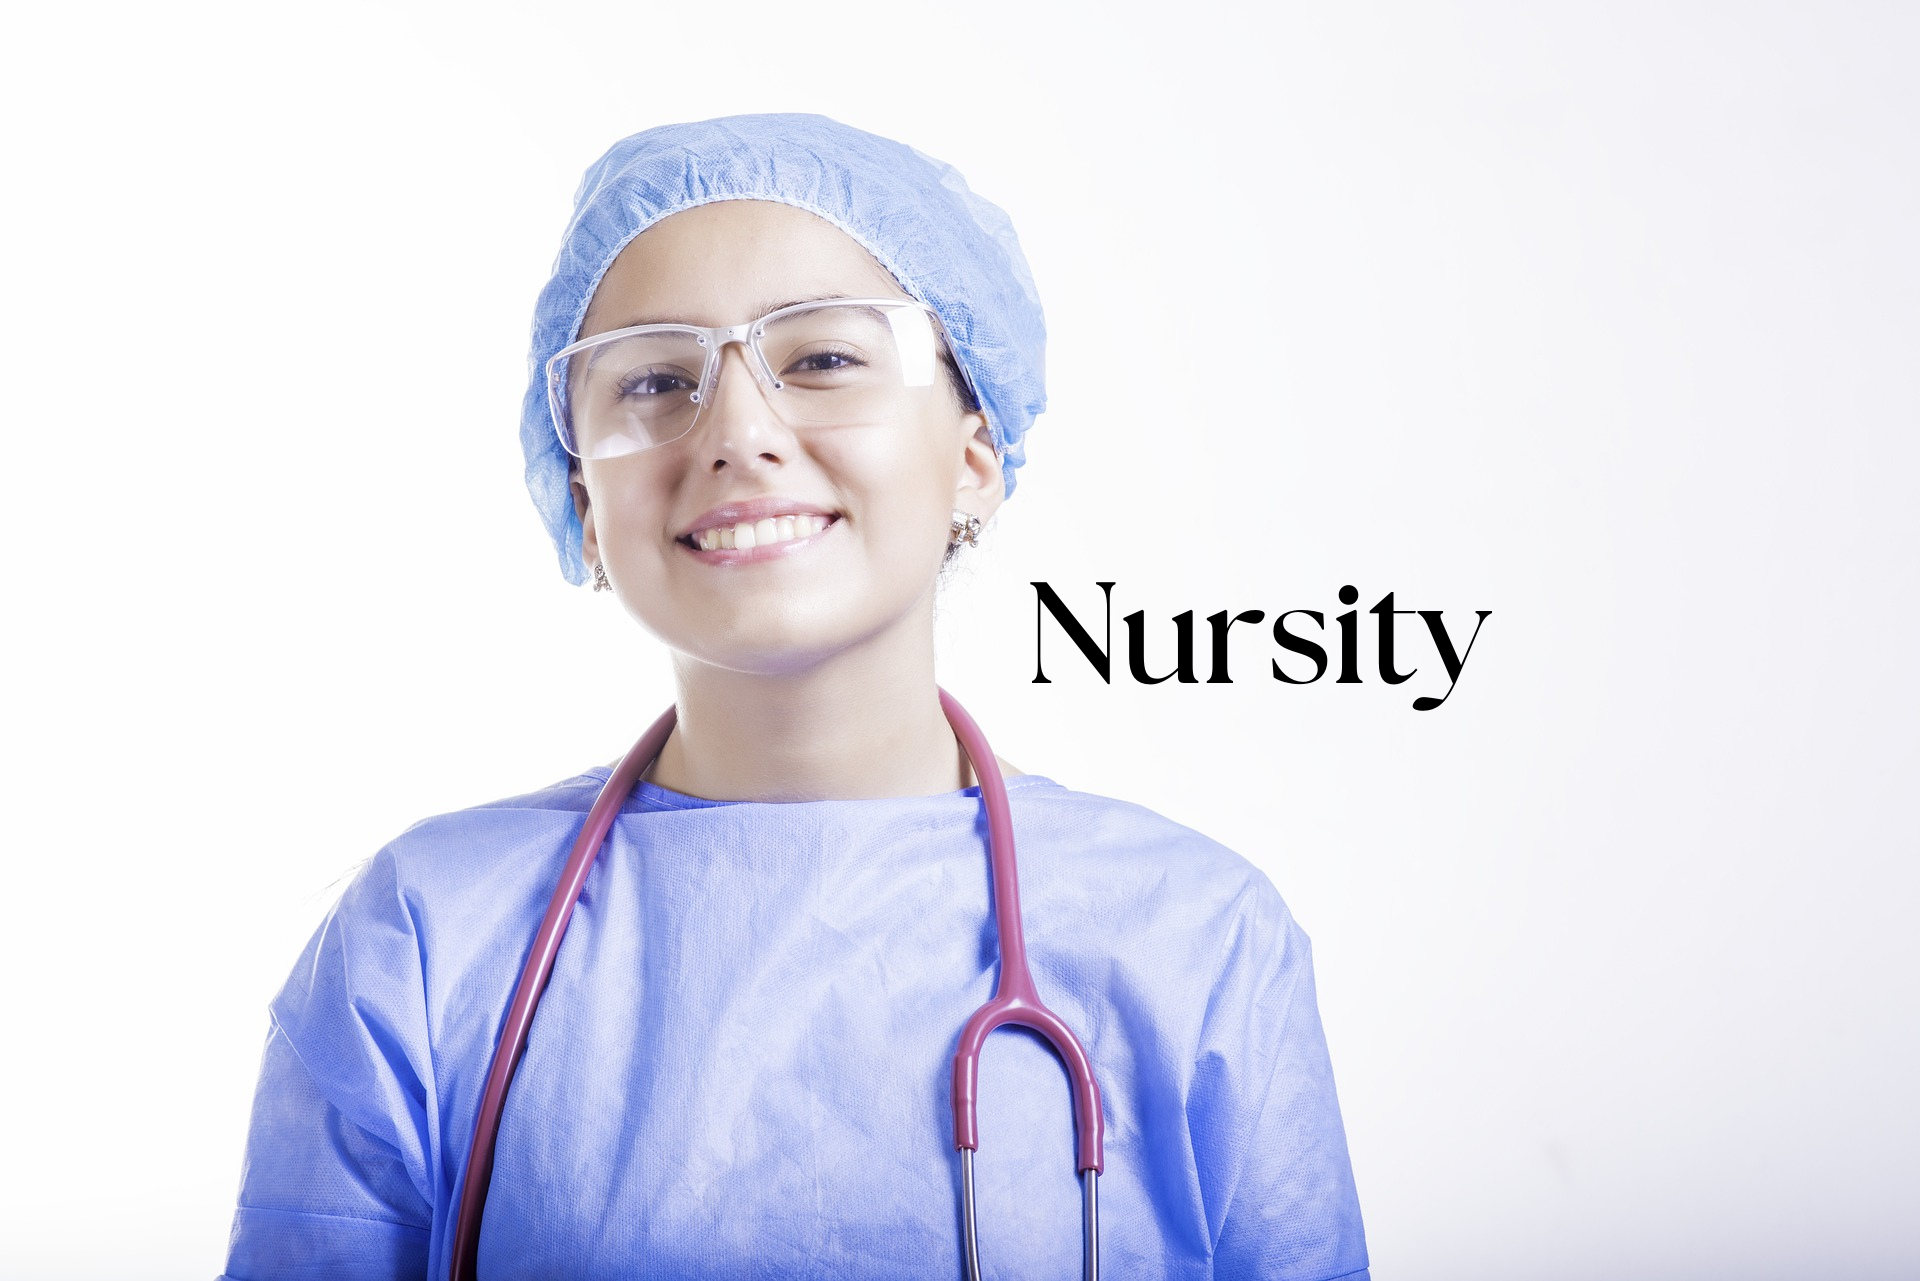
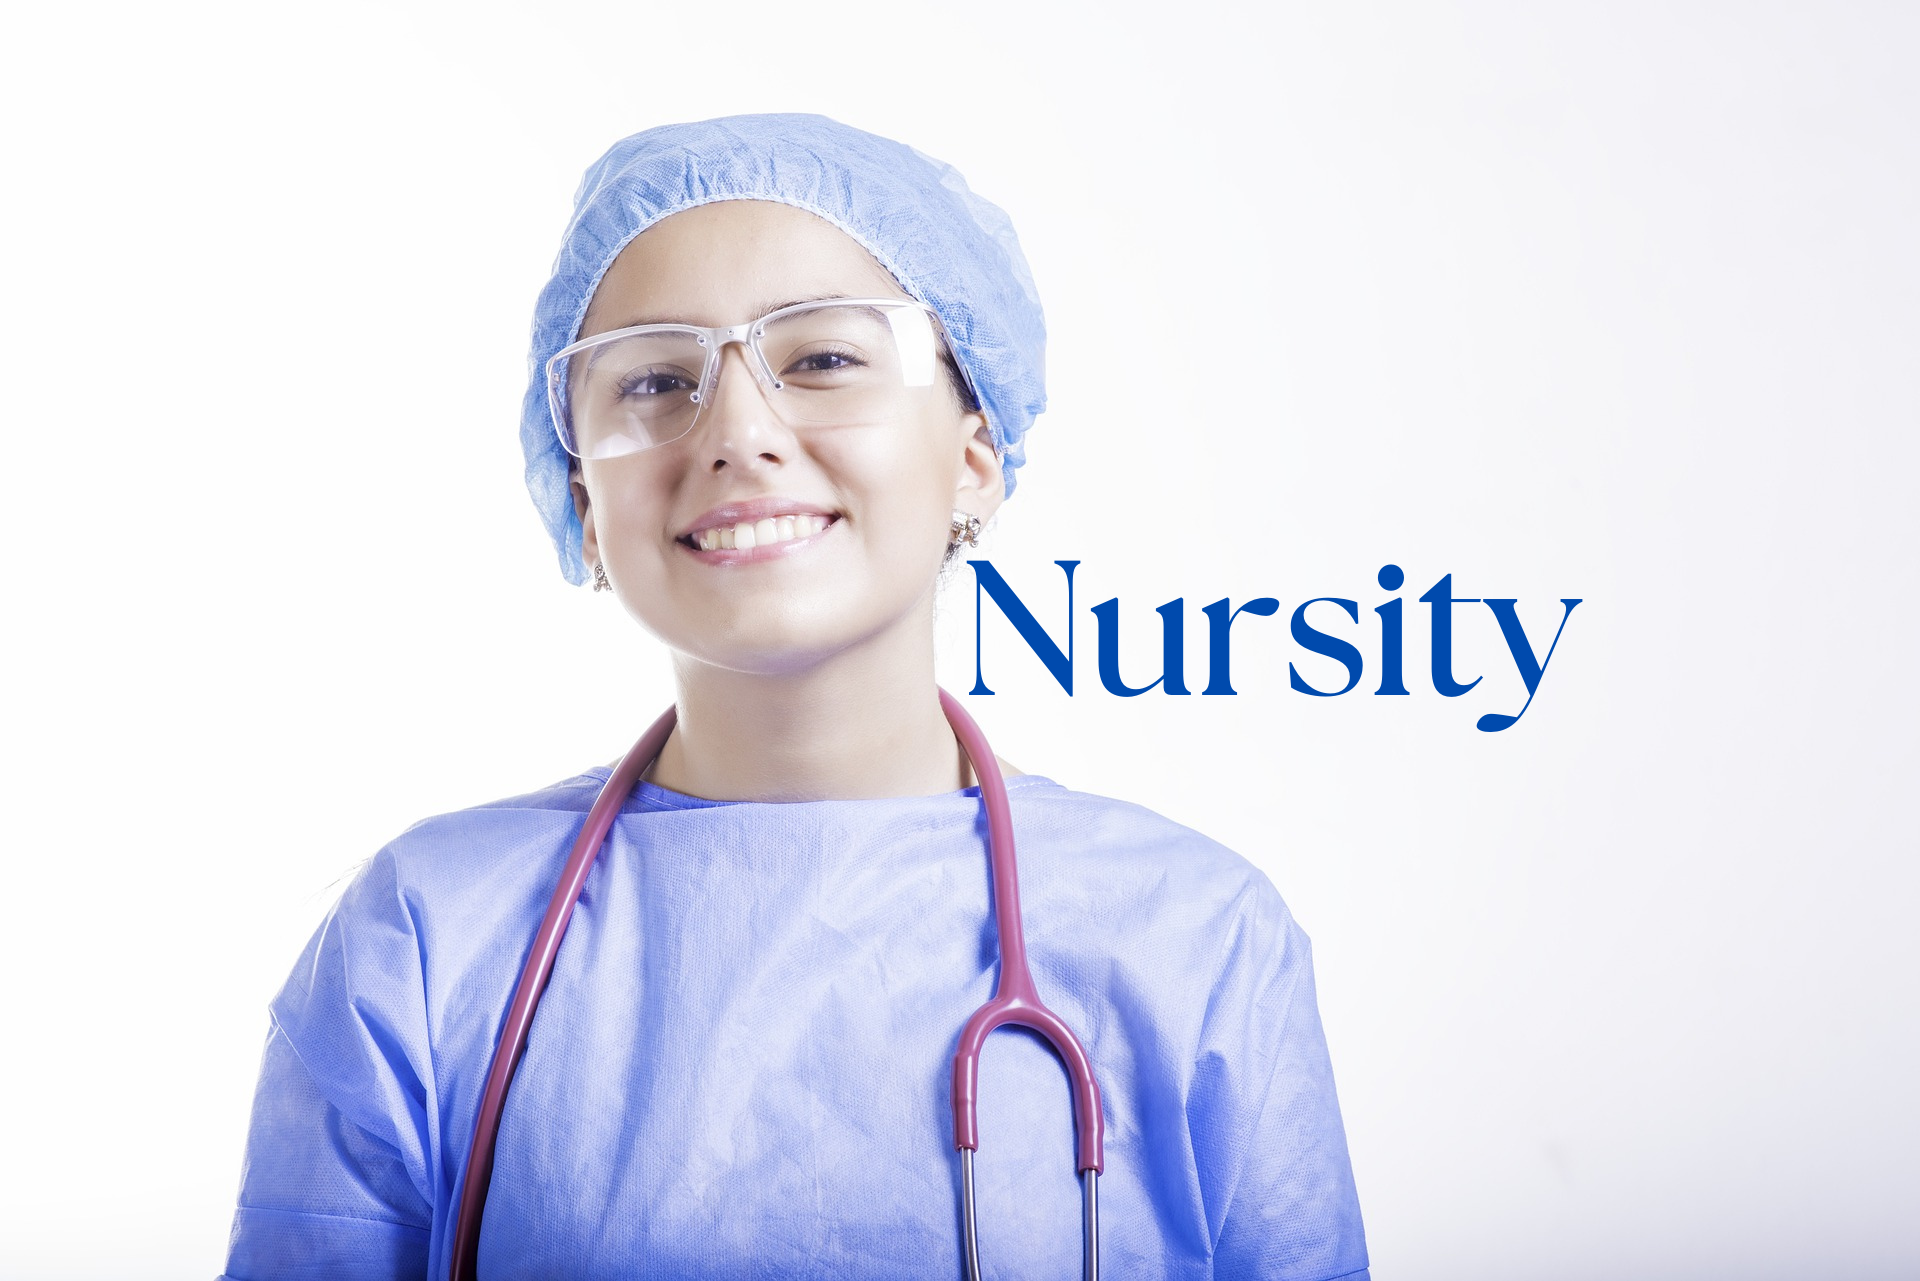
Nursity

Changed region(s): [[0.5, 0.4372, 0.8125, 0.5933]]

diff --git a/index.html b/index.html
@@ -1,0 +1,83 @@
+<!DOCTYPE html>
+<html lang="en">
+<head>
+    <meta charset="UTF-8">
+    <meta name="viewport" content="width=device-width, initial-scale=1.0">
+    <title>Nursity</title>
+    <link rel="stylesheet" href="styles.css">
+    <link rel="stylesheet" href="https://cdnjs.cloudflare.com/ajax/libs/font-awesome/5.15.4/css/all.min.css">
+    <!-- LiveChat Script -->
+    <script>
+        window._lc = window._lc || {};
+        window.__lc = window.__lc || {};
+        window.__lc.license = 13324344;
+        window.__lc.integration_name = "manual_channels";
+        window.__lc.product_name = "livechat";
+        
+        // Customization settings
+        window.__lc.params = [
+            { name: 'primary_color', value: '#0000FF' },  // Blue
+            { name: 'button_color', value: '#0000FF' },  // Blue
+            { name: 'online_status', value: 'blue' },  // Blue
+        ];
+
+        (function(n,t,c){
+            function i(n){return e.h?e._h.apply(null,n):e._q.push(n)}
+            var e={_q:[],_h:null,_v:"2.0",on:function(){i(["on",c.call(arguments)])},once:function(){i(["once",c.call(arguments)])},off:function(){i(["off",c.call(arguments)])},get:function(){if(!e._h)throw new Error("[LiveChatWidget] You can't use getters before load.");return i(["get",c.call(arguments)])},call:function(){i(["call",c.call(arguments)])},init:function(){var n=t.createElement("script");n.async=!0,n.type="text/javascript",n.src="https://cdn.livechatinc.com/tracking.js",t.head.appendChild(n)}};!n._lc.asyncInit&&e.init(),n.LiveChatWidget=n.LiveChatWidget||e}(window,document,[].slice));
+    </script>
+</head>
+<body>
+    <header>
+        <div class="header-content">
+            <div class="header-image-container">
+                <img src="Nurse.png" alt="Header Image">
+            </div>
+            <div class="header-text">
+                <h1>Join Our Nursing Students Forums</h1>
+            </div>
+        </div>
+    </header>
+
+    <section>
+        <div class="social-links">
+            <a href="https://discord.com/" class="social-link discord"><i class="fab fa-discord"></i> Follow us on Discord</a>
+            <a href="https://www.facebook.com/profile.php?id=100087908747987" class="social-link facebook"><i class="fab fa-facebook-f"></i> Join our Facebook Group</a>
+            <a href="https://www.instagram.com/" class="social-link instagram"><i class="fab fa-instagram"></i> Follow us on Instagram</a>
+            <a href="https://web.telegram.org" class="social-link telegram"><i class="fab fa-telegram-plane"></i> Join our Telegram Group</a>
+            <a href="https://web.whatsapp.com/" class="social-link whatsapp"><i class="fab fa-whatsapp"></i> Talk to us on WhatsApp</a>
+        </div>
+    </section>
+    
+    <main>
+        <section class="benefits">
+            <h2>Join our Nursing Student group to unlock a wealth of benefits tailored to your academic and professional success:</h2>
+            <ul>
+                <li>💉 Study Tips and Techniques</li>
+                <li>💉 Urgent Assignments Help</li>
+                <li>💉 Community Support</li>
+                <li>💉 Resource Sharing</li>
+                <li>💉 Networking Opportunities</li>
+                <li>💉 Exclusive Events and Workshops</li>
+                <li>💉 Job and Internship Opportunities</li>
+                <li>💉 Support for Clinical Rotations</li>
+                <li>💉 Professional Development</li>
+                <li>💉 Sense of Belonging</li>
+            </ul>
+        </section>
+        <section class="subscribe">
+            <button class="subscribe-btn">SUBSCRIBE & SAVE!</button>
+        </section>
+    </main>
+
+    <!-- LiveChat Widget -->
+    <script>
+        window.LiveChatWidget = window.LiveChatWidget || {};
+        window.LiveChatWidget.on('ready', function() {
+            console.log('LiveChat is ready');
+        });
+    </script>
+    <noscript>
+        <a href="https://www.livechat.com/chat-with/13324344/" rel="nofollow">Chat with us</a>, powered by <a href="https://www.livechat.com/?welcome" rel="noopener nofollow" target="_blank">LiveChat</a>
+    </noscript>
+</body>
+</html>

diff --git a/styles.css b/styles.css
@@ -22,7 +22,7 @@ body {
 
 /* Header styles */
 header {
-    background: transparent; /* Keep header background transparent to show the animated background */
+    background: transparent; 
     padding: 50px;
     text-align: center;
 }
